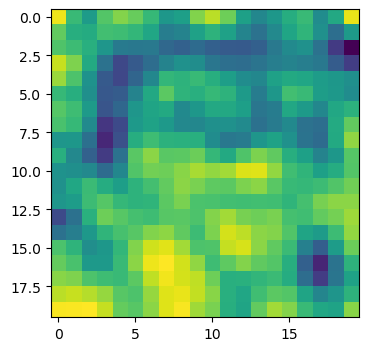
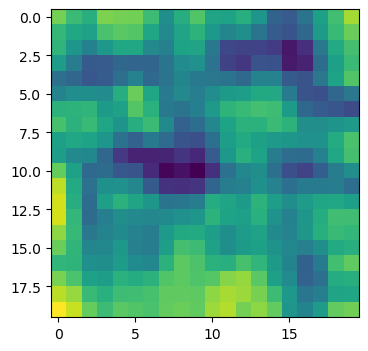
fixed small errors

diff --git a/docs/index.html b/docs/index.html
@@ -70,7 +70,7 @@ nb_path: "index.ipynb"
 <div class="inner_cell">
     <div class="input_area">
 <div class=" highlight hl-ipython3"><pre><span></span><span class="kn">import</span> <span class="nn">numpy</span> <span class="k">as</span> <span class="nn">np</span>
-<span class="kn">from</span> <span class="nn">numbasom.core</span> <span class="kn">import</span> <span class="n">NumbaSOM</span><span class="p">,</span> <span class="n">u_matrix</span><span class="p">,</span> <span class="n">plot_u_matrix</span>
+<span class="kn">from</span> <span class="nn">numbasom</span> <span class="kn">import</span> <span class="n">SOM</span><span class="p">,</span> <span class="n">u_matrix</span><span class="p">,</span> <span class="n">plot_u_matrix</span>
 </pre></div>
 
     </div>
@@ -116,7 +116,7 @@ nb_path: "index.ipynb"
 
 <div class="inner_cell">
     <div class="input_area">
-<div class=" highlight hl-ipython3"><pre><span></span><span class="n">som</span> <span class="o">=</span> <span class="n">NumbaSOM</span><span class="p">(</span><span class="n">som_size</span><span class="o">=</span><span class="p">(</span><span class="mi">20</span><span class="p">,</span><span class="mi">20</span><span class="p">))</span>
+<div class=" highlight hl-ipython3"><pre><span></span><span class="n">som</span> <span class="o">=</span> <span class="n">SOM</span><span class="p">(</span><span class="n">som_size</span><span class="o">=</span><span class="p">(</span><span class="mi">20</span><span class="p">,</span><span class="mi">20</span><span class="p">))</span>
 </pre></div>
 
     </div>
@@ -152,8 +152,8 @@ nb_path: "index.ipynb"
 <div class="output_area">
 
 <div class="output_subarea output_stream output_stdout output_text">
-<pre>Data scaling took: 0.000263 seconds.
-SOM training took: 0.003851 seconds.
+<pre>Data scaling took: 0.338414 seconds.
+SOM training took: 1.049132 seconds.
 </pre>
 </div>
 </div>
@@ -192,10 +192,10 @@ SOM training took: 0.003851 seconds.
 
 
 <div class="output_text output_subarea output_execute_result">
-<pre>array([[0.26589568, 0.50836002, 0.49843773],
-       [0.48841612, 0.22821334, 0.468278  ],
-       [0.67837494, 0.35688215, 0.60746632],
-       [0.47968079, 0.39957501, 0.8833814 ]])</pre>
+<pre>array([[0.72234145, 0.20699402, 0.48731189],
+       [0.49514563, 0.18585944, 0.64291118],
+       [0.39127316, 0.13052984, 0.4517087 ],
+       [0.40195937, 0.42461381, 0.14699424]])</pre>
 </div>
 
 </div>
@@ -242,7 +242,7 @@ SOM training took: 0.003851 seconds.
 
 <div class="inner_cell">
     <div class="input_area">
-<div class=" highlight hl-ipython3"><pre><span></span><span class="n">plot_u_matrix</span><span class="p">(</span><span class="n">um</span><span class="p">,</span> <span class="n">fig_size</span><span class="o">=</span><span class="p">(</span><span class="mi">4</span><span class="p">,</span><span class="mi">4</span><span class="p">))</span>
+<div class=" highlight hl-ipython3"><pre><span></span><span class="n">plot_u_matrix</span><span class="p">(</span><span class="n">um</span><span class="p">)</span>
 </pre></div>
 
     </div>
@@ -257,7 +257,7 @@ SOM training took: 0.003851 seconds.
 
 
 <div class="output_png output_subarea ">
[2 lines of base64/hex data omitted]
 "
 >
 </div>

diff --git a/docs/core.html b/docs/core.html
@@ -40,7 +40,7 @@ nb_path: "00_core.ipynb"
 
 
 <div class="output_markdown rendered_html output_subarea ">
-<h2 id="NumbaSOM" class="doc_header"><code>class</code> <code>NumbaSOM</code><a href="https://github.com/nmarincic/numbasom/tree/master/numbasom/core.py#L15" class="source_link" style="float:right">[source]</a></h2><blockquote><p><code>NumbaSOM</code>(<strong><code>som_size</code></strong>, <strong><code>is_torus</code></strong>=<em><code>False</code></em>)</p>
+<h2 id="SOM" class="doc_header"><code>class</code> <code>SOM</code><a href="https://github.com/nmarincic/numbasom/tree/master/numbasom/core.py#L14" class="source_link" style="float:right">[source]</a></h2><blockquote><p><code>SOM</code>(<strong><code>som_size</code></strong>, <strong><code>is_torus</code></strong>=<em><code>False</code></em>)</p>
 </blockquote>
 <p>Instantiates the class with data</p>
 
@@ -78,7 +78,7 @@ nb_path: "00_core.ipynb"
 
 
 <div class="output_markdown rendered_html output_subarea ">
-<h4 id="NumbaSOM.train" class="doc_header"><code>NumbaSOM.train</code><a href="https://github.com/nmarincic/numbasom/tree/master/numbasom/core.py#L21" class="source_link" style="float:right">[source]</a></h4><blockquote><p><code>NumbaSOM.train</code>(<strong><code>data</code></strong>, <strong><code>num_iterations</code></strong>, <strong><code>is_scaled</code></strong>=<em><code>False</code></em>)</p>
+<h4 id="SOM.train" class="doc_header"><code>SOM.train</code><a href="https://github.com/nmarincic/numbasom/tree/master/numbasom/core.py#L20" class="source_link" style="float:right">[source]</a></h4><blockquote><p><code>SOM.train</code>(<strong><code>data</code></strong>, <strong><code>num_iterations</code></strong>, <strong><code>is_scaled</code></strong>=<em><code>False</code></em>)</p>
 </blockquote>
 
 </div>
@@ -108,7 +108,7 @@ nb_path: "00_core.ipynb"
 
 
 <div class="output_markdown rendered_html output_subarea ">
-<h4 id="normalize" class="doc_header"><code>normalize</code><a href="https://github.com/nmarincic/numbasom/tree/master/numbasom/core.py#L35" class="source_link" style="float:right">[source]</a></h4><blockquote><p><code>normalize</code>(<strong><code>data</code></strong>, <strong><code>min_val</code></strong>=<em><code>0</code></em>, <strong><code>max_val</code></strong>=<em><code>1</code></em>)</p>
+<h4 id="normalize" class="doc_header"><code>normalize</code><a href="https://github.com/nmarincic/numbasom/tree/master/numbasom/core.py#L34" class="source_link" style="float:right">[source]</a></h4><blockquote><p><code>normalize</code>(<strong><code>data</code></strong>, <strong><code>min_val</code></strong>=<em><code>0</code></em>, <strong><code>max_val</code></strong>=<em><code>1</code></em>)</p>
 </blockquote>
 
 </div>
@@ -139,7 +139,7 @@ nb_path: "00_core.ipynb"
 
 
 <div class="output_markdown rendered_html output_subarea ">
-<h4 id="u_matrix" class="doc_header"><code>u_matrix</code><a href="https://github.com/nmarincic/numbasom/tree/master/numbasom/core.py#L234" class="source_link" style="float:right">[source]</a></h4><blockquote><p><code>u_matrix</code>(<strong><code>lattice</code></strong>)</p>
+<h4 id="u_matrix" class="doc_header"><code>u_matrix</code><a href="https://github.com/nmarincic/numbasom/tree/master/numbasom/core.py#L233" class="source_link" style="float:right">[source]</a></h4><blockquote><p><code>u_matrix</code>(<strong><code>lattice</code></strong>)</p>
 </blockquote>
 
 </div>
@@ -170,7 +170,7 @@ nb_path: "00_core.ipynb"
 
 
 <div class="output_markdown rendered_html output_subarea ">
-<h4 id="project_on_som" class="doc_header"><code>project_on_som</code><a href="https://github.com/nmarincic/numbasom/tree/master/numbasom/core.py#L291" class="source_link" style="float:right">[source]</a></h4><blockquote><p><code>project_on_som</code>(<strong><code>data</code></strong>, <strong><code>lattice</code></strong>, <strong><code>additional_list</code></strong>=<em><code>None</code></em>, <strong><code>data_scaled</code></strong>=<em><code>False</code></em>)</p>
+<h4 id="project_on_som" class="doc_header"><code>project_on_som</code><a href="https://github.com/nmarincic/numbasom/tree/master/numbasom/core.py#L290" class="source_link" style="float:right">[source]</a></h4><blockquote><p><code>project_on_som</code>(<strong><code>data</code></strong>, <strong><code>lattice</code></strong>, <strong><code>additional_list</code></strong>=<em><code>None</code></em>, <strong><code>data_scaled</code></strong>=<em><code>False</code></em>)</p>
 </blockquote>
 
 </div>
@@ -201,7 +201,7 @@ nb_path: "00_core.ipynb"
 
 
 <div class="output_markdown rendered_html output_subarea ">
-<h4 id="lattice_closest_vectors" class="doc_header"><code>lattice_closest_vectors</code><a href="https://github.com/nmarincic/numbasom/tree/master/numbasom/core.py#L331" class="source_link" style="float:right">[source]</a></h4><blockquote><p><code>lattice_closest_vectors</code>(<strong><code>data</code></strong>, <strong><code>lattice</code></strong>, <strong><code>additional_list</code></strong>=<em><code>None</code></em>, <strong><code>data_scaled</code></strong>=<em><code>False</code></em>)</p>
+<h4 id="lattice_closest_vectors" class="doc_header"><code>lattice_closest_vectors</code><a href="https://github.com/nmarincic/numbasom/tree/master/numbasom/core.py#L330" class="source_link" style="float:right">[source]</a></h4><blockquote><p><code>lattice_closest_vectors</code>(<strong><code>data</code></strong>, <strong><code>lattice</code></strong>, <strong><code>additional_list</code></strong>=<em><code>None</code></em>, <strong><code>data_scaled</code></strong>=<em><code>False</code></em>)</p>
 </blockquote>
 
 </div>
@@ -232,7 +232,7 @@ nb_path: "00_core.ipynb"
 
 
 <div class="output_markdown rendered_html output_subarea ">
-<h4 id="save_lattice" class="doc_header"><code>save_lattice</code><a href="https://github.com/nmarincic/numbasom/tree/master/numbasom/core.py#L374" class="source_link" style="float:right">[source]</a></h4><blockquote><p><code>save_lattice</code>(<strong><code>lattice</code></strong>, <strong><code>filename</code></strong>)</p>
+<h4 id="save_lattice" class="doc_header"><code>save_lattice</code><a href="https://github.com/nmarincic/numbasom/tree/master/numbasom/core.py#L373" class="source_link" style="float:right">[source]</a></h4><blockquote><p><code>save_lattice</code>(<strong><code>lattice</code></strong>, <strong><code>filename</code></strong>)</p>
 </blockquote>
 
 </div>
@@ -256,7 +256,7 @@ nb_path: "00_core.ipynb"
 
 
 <div class="output_markdown rendered_html output_subarea ">
-<h4 id="load_lattice" class="doc_header"><code>load_lattice</code><a href="https://github.com/nmarincic/numbasom/tree/master/numbasom/core.py#L378" class="source_link" style="float:right">[source]</a></h4><blockquote><p><code>load_lattice</code>(<strong><code>filename</code></strong>)</p>
+<h4 id="load_lattice" class="doc_header"><code>load_lattice</code><a href="https://github.com/nmarincic/numbasom/tree/master/numbasom/core.py#L377" class="source_link" style="float:right">[source]</a></h4><blockquote><p><code>load_lattice</code>(<strong><code>filename</code></strong>)</p>
 </blockquote>
 
 </div>

diff --git a/numbasom/core.py b/numbasom/core.py
@@ -1,7 +1,6 @@
 # AUTOGENERATED! DO NOT EDIT! File to edit: 00_core.ipynb (unless otherwise specified).
 
-__all__ = ['NumbaSOM', 'normalize', 'u_matrix', 'project_on_som', 'lattice_closest_vectors', 'save_lattice',
-           'load_lattice']
+__all__ = ['SOM', 'normalize', 'u_matrix', 'project_on_som', 'lattice_closest_vectors', 'save_lattice', 'load_lattice']
 
 # Internal Cell
 from .viz import *
@@ -12,7 +11,7 @@ import collections
 from timeit import default_timer as timer
 
 # Cell
-class NumbaSOM:
+class SOM:
     """Instantiates the class with data"""
     def __init__(self, som_size, is_torus=False):
         self.som_size=som_size

diff --git a/numbasom/_nbdev.py b/numbasom/_nbdev.py
@@ -2,7 +2,7 @@
 
 __all__ = ["index", "modules", "custom_doc_links", "git_url"]
 
-index = {"NumbaSOM": "00_core.ipynb",
+index = {"SOM": "00_core.ipynb",
          "normalize": "00_core.ipynb",
          "normalize_with_mutate": "00_core.ipynb",
          "pairwise": "00_core.ipynb",

diff --git a/numbasom/__init__.py b/numbasom/__init__.py
@@ -1,1 +1,3 @@
+from .core import *
+from .viz import *
 __version__ = "0.0.1"

diff --git a/README.md b/README.md
@@ -14,7 +14,7 @@ Train a SOM on 1000 random 3-dimensional vectors:
 
 ```python
 import numpy as np
-from numbasom.core import NumbaSOM, u_matrix, plot_u_matrix
+from numbasom import SOM, u_matrix, plot_u_matrix
 ```
 
 #### Load some data
@@ -26,7 +26,7 @@ data = np.random.randn(100,3)
 #### Initialize the library
 
 ```python
-som = NumbaSOM(som_size=(20,20))
+som = SOM(som_size=(20,20))
 ```
 
 #### Train
@@ -35,8 +35,8 @@ som = NumbaSOM(som_size=(20,20))
 lattice = som.train(data, num_iterations=1000)
 ```
 
-    Data scaling took: 0.000263 seconds.
-    SOM training took: 0.003851 seconds.
+    Data scaling took: 0.338414 seconds.
+    SOM training took: 1.049132 seconds.
 
 
 #### Display the value in the first row and first column of the lattice
@@ -48,10 +48,10 @@ lattice[1::6,1]
 
 
 
-    array([[0.26589568, 0.50836002, 0.49843773],
-           [0.48841612, 0.22821334, 0.468278  ],
-           [0.67837494, 0.35688215, 0.60746632],
-           [0.47968079, 0.39957501, 0.8833814 ]])
+    array([[0.72234145, 0.20699402, 0.48731189],
+           [0.49514563, 0.18585944, 0.64291118],
+           [0.39127316, 0.13052984, 0.4517087 ],
+           [0.40195937, 0.42461381, 0.14699424]])
 
 
 
@@ -64,7 +64,7 @@ um = u_matrix(lattice)
 #### Plot U-matrix
 
 ```python
-plot_u_matrix(um, fig_size=(4,4))
+plot_u_matrix(um)
 ```
 
 
